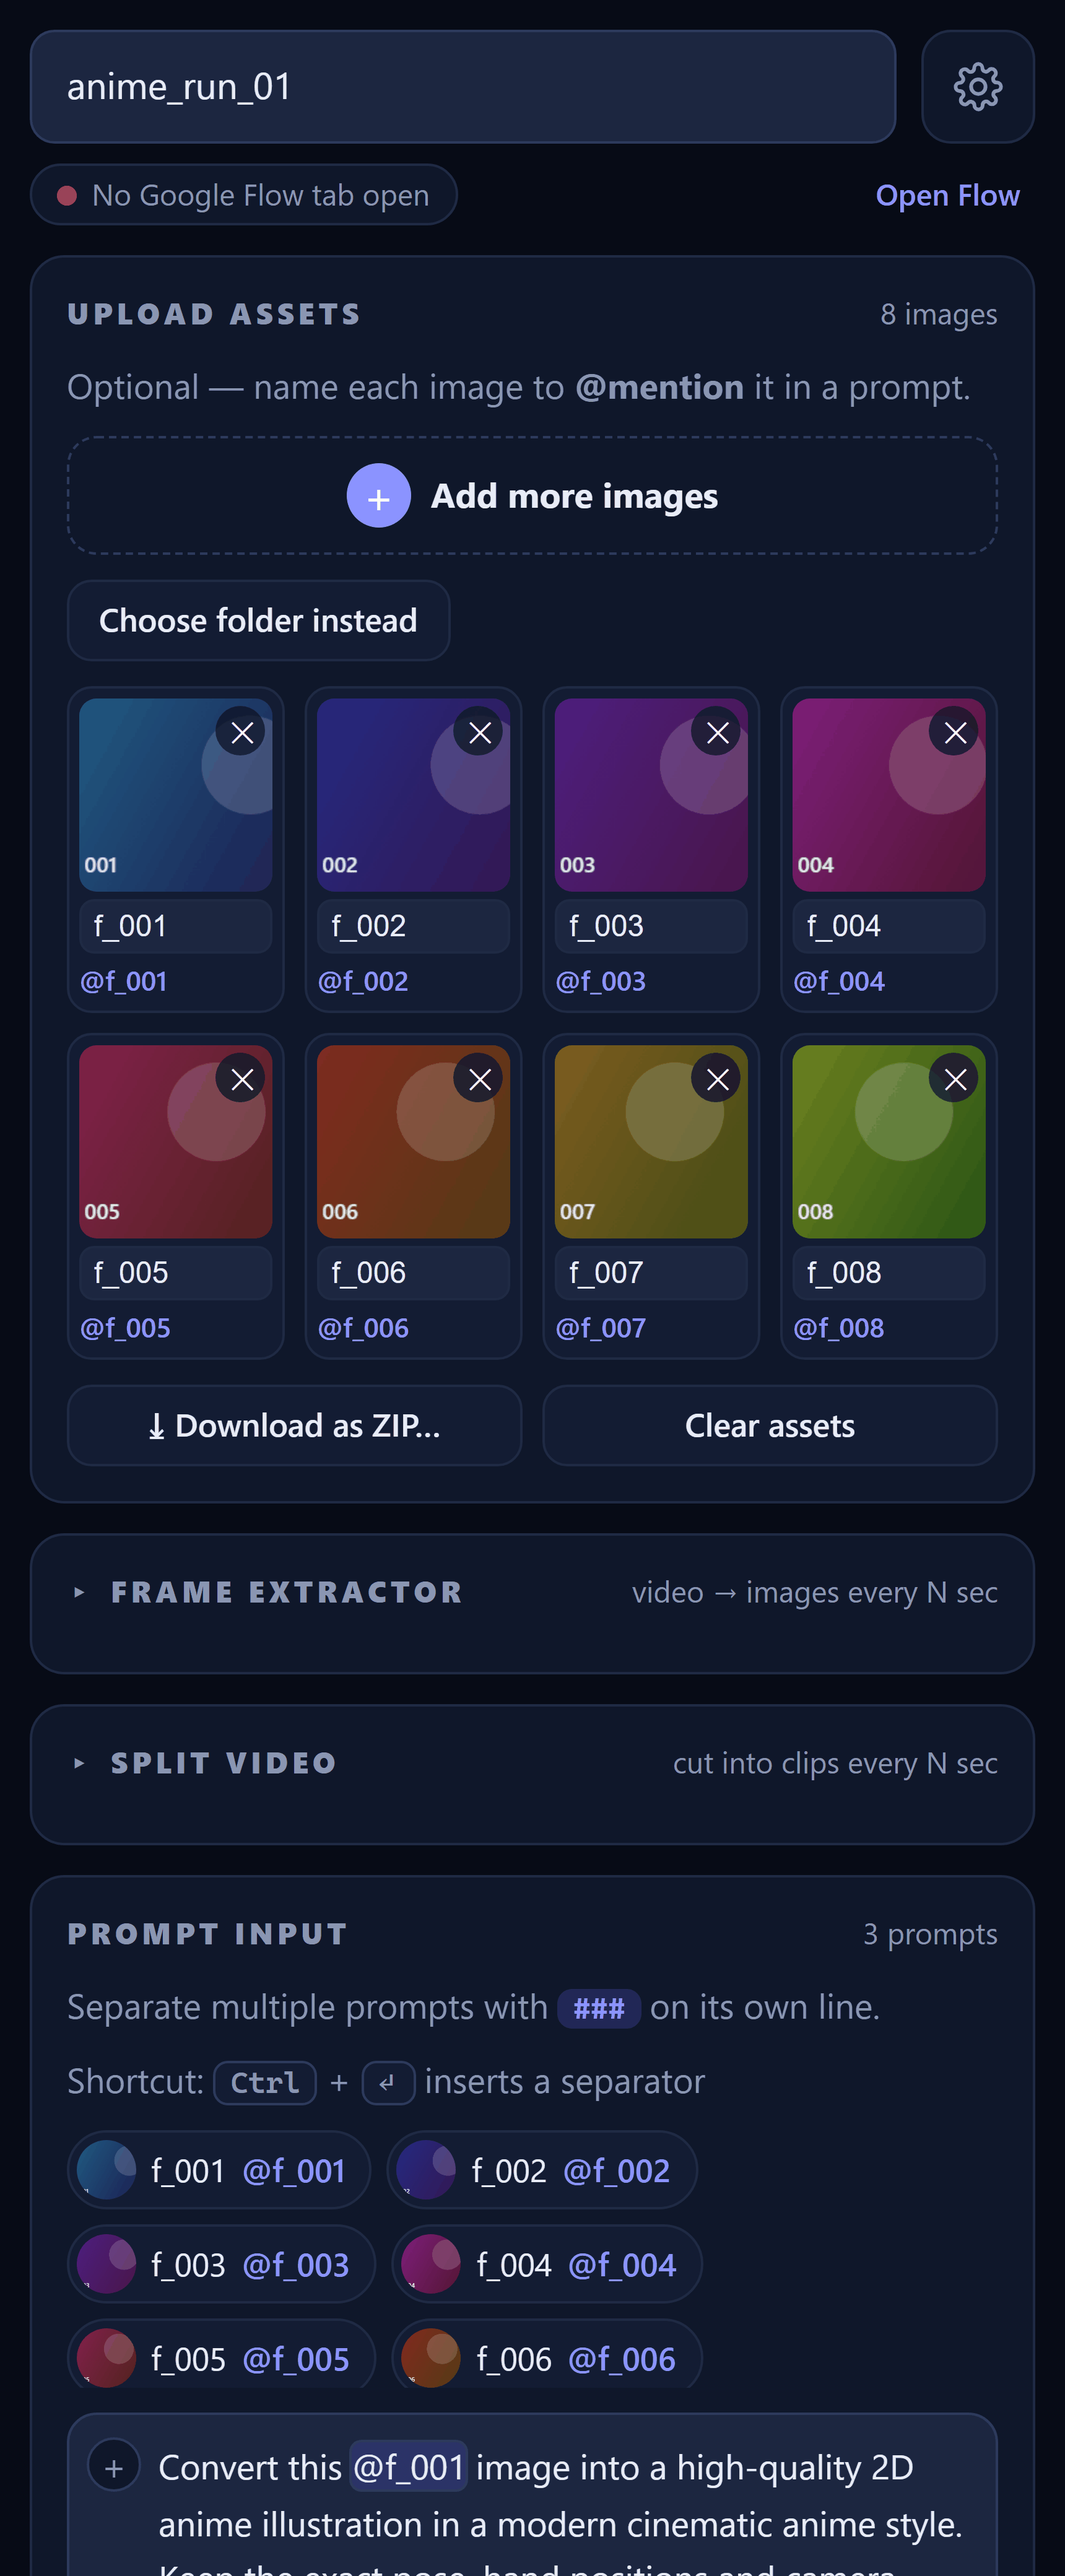
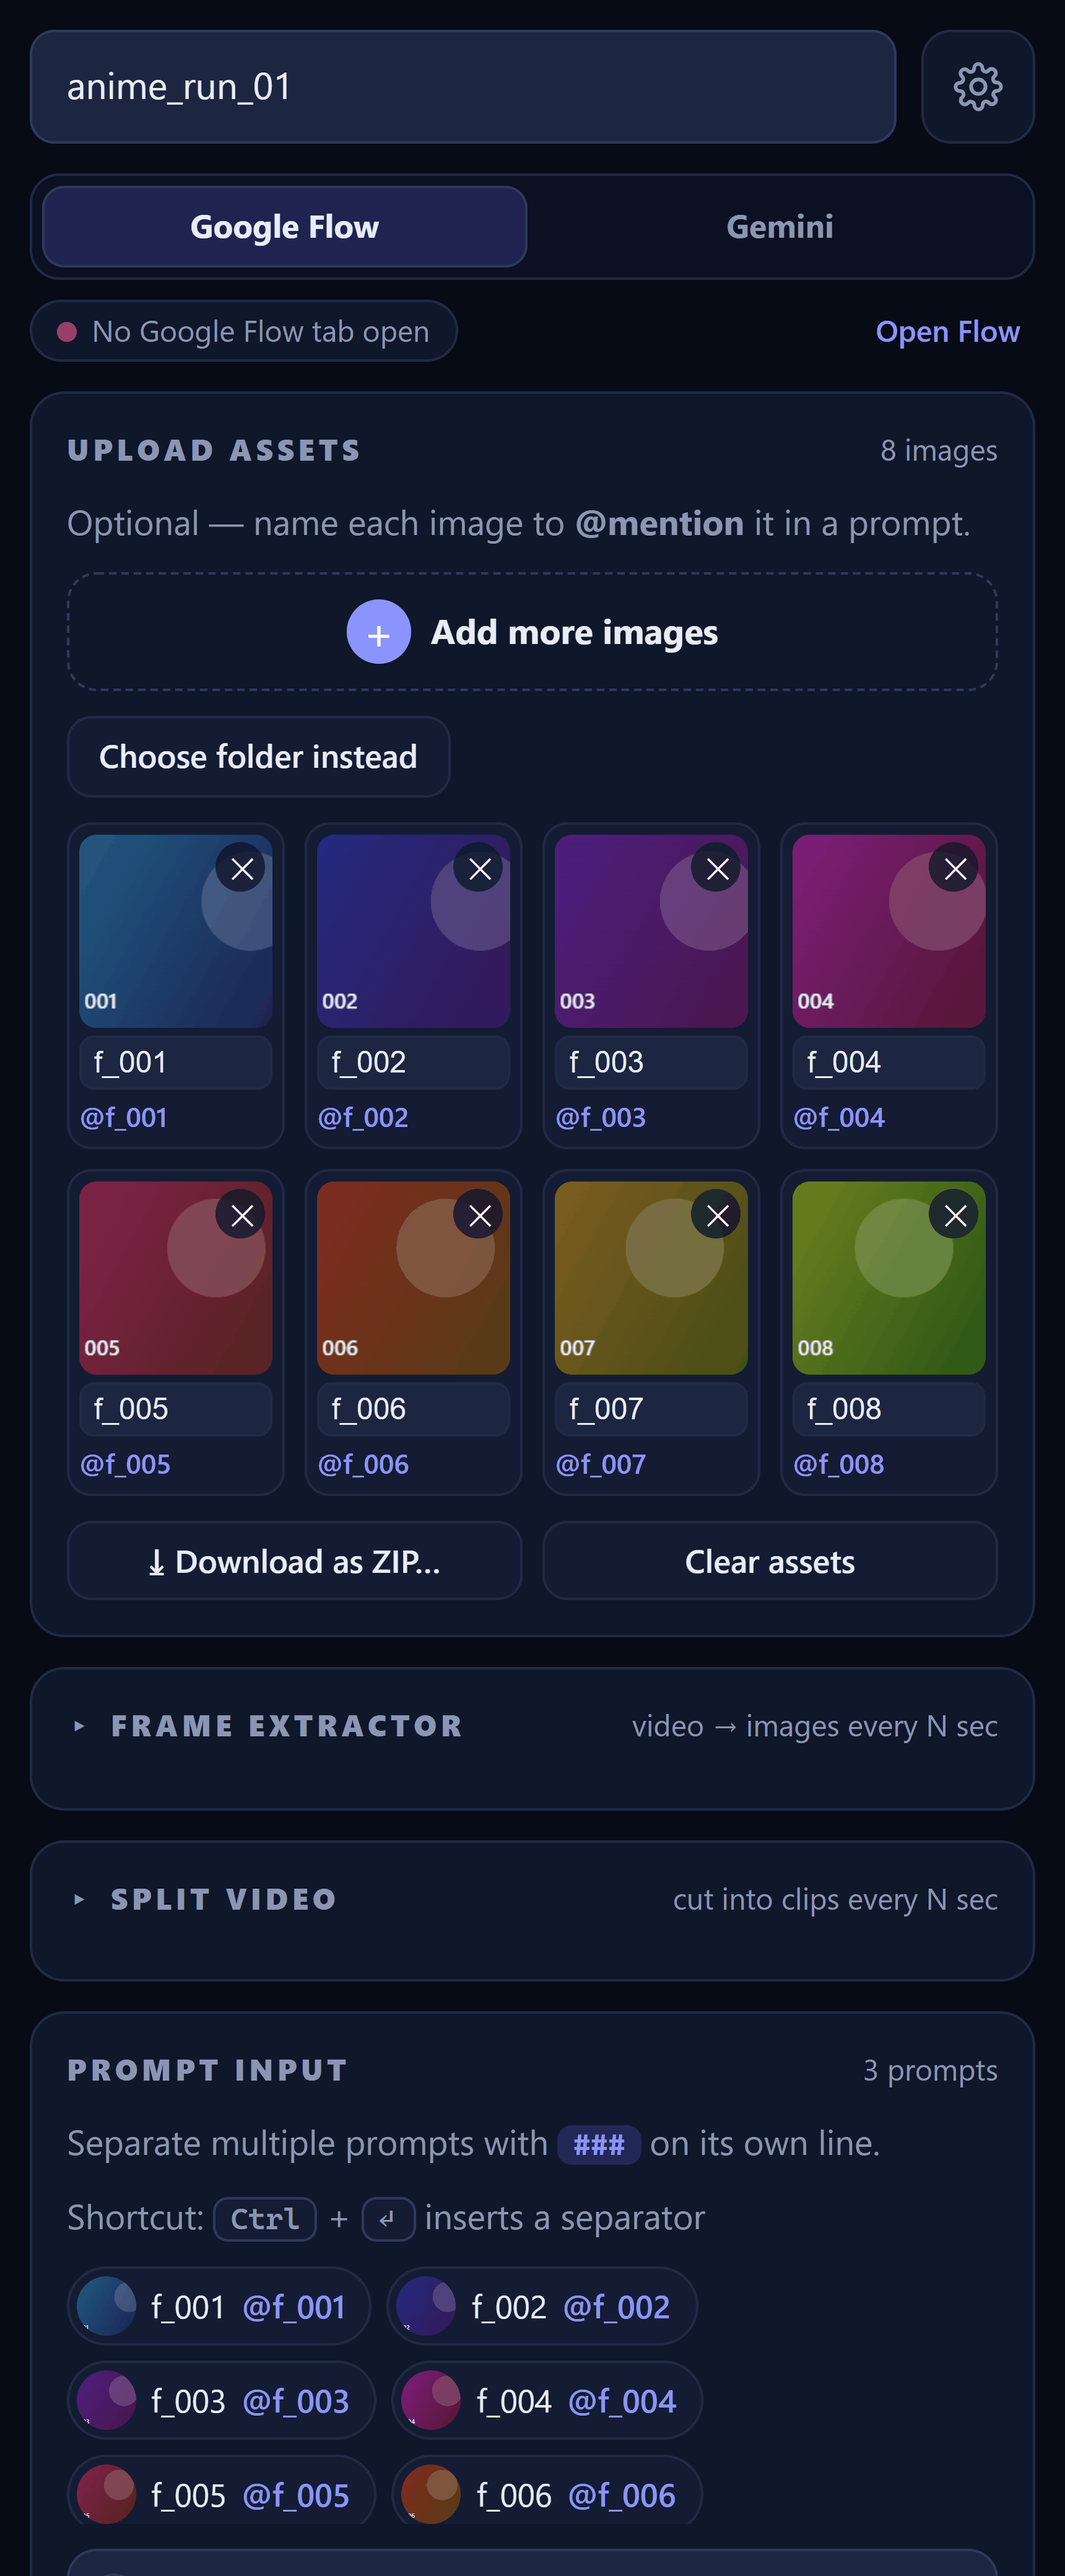
Document Gemini support and add its screenshots
- README: a "Using Gemini instead of Flow" section, Send to Gemini, Gemini
  element calibration, and the new files
- Screenshots: the site switch in the panel, Gemini's options and elements,
  and Settings with the Gemini URL and new-chat toggle
- Shorter labels for Gemini's "no change" options, which were cut off when
  the ratio and model selects sit side by side

diff --git a/sidepanel/js/store.js b/sidepanel/js/store.js
@@ -79,7 +79,7 @@ export const ASPECTS = {
 // Gemini's model picker in the prompt box — one setting for images and videos (Veo makes the
 // videos whichever is picked). `match` is tested against its menu items.
 const GEMINI_MODEL_LIST = [
-  { id: 'keep', label: "Gemini's current", sub: "Don't change", icon: '–', match: null },
+  { id: 'keep', label: 'Unchanged', sub: "Gemini's current", icon: '–', match: null },
   { id: 'fast', label: 'Fast', sub: 'Quickest', icon: 'G', match: '^fast\\b|flash' },
   { id: 'thinking', label: 'Thinking', sub: 'Images: Nano Banana Pro', icon: 'G', match: '^thinking\\b' },
   { id: 'pro', label: 'Pro', sub: 'Most capable', icon: 'G', match: '^(\\d(\\.\\d)?\\s*)?pro\\b' },
@@ -90,7 +90,7 @@ export const GEMINI_MODELS = { image: GEMINI_MODEL_LIST, video: GEMINI_MODEL_LIS
 const ADDED = 'Added to the prompt';
 export const GEMINI_ASPECTS = {
   image: [
-    { id: 'keep', label: 'Leave to Gemini', sub: 'Nothing added', icon: '–' },
+    { id: 'keep', label: 'Not set', sub: 'Gemini decides', icon: '–' },
     { id: '16:9', label: '16:9', sub: ADDED, icon: 'land' },
     { id: '9:16', label: '9:16', sub: ADDED, icon: 'port' },
     { id: '1:1', label: '1:1', sub: ADDED, icon: 'sq' },
@@ -98,7 +98,7 @@ export const GEMINI_ASPECTS = {
     { id: '3:4', label: '3:4', sub: ADDED, icon: 'port' },
   ],
   video: [
-    { id: 'keep', label: 'Leave to Gemini', sub: 'Nothing added', icon: '–' },
+    { id: 'keep', label: 'Not set', sub: 'Gemini decides', icon: '–' },
     { id: '16:9', label: '16:9', sub: ADDED, icon: 'land' },
     { id: '9:16', label: '9:16', sub: ADDED, icon: 'port' },
   ],

diff --git a/README.md b/README.md
@@ -1,9 +1,10 @@
-# FlowBatch: bulk generator for Google Flow
+# FlowBatch: bulk generator for Google Flow and Gemini
 
 FlowBatch is a Chrome side-panel extension. It runs a queue of 20–30+ prompts in
-[Google Flow](https://flow.google.com/), one prompt at a time. For each prompt it attaches the
-reference images mentioned in the prompt, types the prompt, and submits it. Then it waits until
-Flow finishes (or reports an error), downloads the result, and moves on to the next prompt.
+[Google Flow](https://flow.google.com/) or [Gemini](https://gemini.google.com/app), one prompt at a
+time. For each prompt it attaches the reference images mentioned in the prompt, types the prompt,
+and submits it. Then it waits until the site finishes (or reports an error), downloads the result,
+and moves on to the next prompt.
 It also includes a frame extractor that turns a video into stills every N seconds — from a local file,
 a direct video URL, or by capturing whatever is playing in a browser tab.
 
@@ -14,7 +15,7 @@ a direct video URL, or by capturing whatever is playing in a browser tab.
   &nbsp;
   <img src="docs/screenshots/prompt.png" width="300" alt="Prompt editor with highlighted mentions and separators">
 </p>
-<p align="center"><sub><b>The side panel</b> — reference images, prompts and generation options &nbsp;·&nbsp; <b>Prompt editor</b> — @mentions and <code>###</code> separators highlighted as you type</sub></p>
+<p align="center"><sub><b>The side panel</b> — pick Google Flow or Gemini at the top, then reference images, prompts and generation options &nbsp;·&nbsp; <b>Prompt editor</b> — @mentions and <code>###</code> separators highlighted as you type</sub></p>
 
 <p align="center">
   <img src="docs/screenshots/frames.png" width="300" alt="Frame extractor with video preview and extracted frames">
@@ -42,23 +43,30 @@ a direct video URL, or by capturing whatever is playing in a browser tab.
   &nbsp;
   <img src="docs/screenshots/publish.png" width="300" alt="Publish queue with captions, hashtags and scheduled times">
 </p>
-<p align="center"><sub><b>Split video</b> &mdash; clips every N seconds; save, zip or send the ones you tick to Flow &nbsp;&middot;&nbsp; <b>Publish queue</b> &mdash; captions from your prompts, suggested hashtags and a posting time per item</sub></p>
+<p align="center"><sub><b>Split video</b> &mdash; clips every N seconds; save, zip or send the ones you tick to Flow or Gemini &nbsp;&middot;&nbsp; <b>Publish queue</b> &mdash; captions from your prompts, suggested hashtags and a posting time per item</sub></p>
+
+<p align="center">
+  <img src="docs/screenshots/gemini.png" width="300" alt="Generation options with Gemini selected: ratio not set, Thinking model">
+  &nbsp;
+  <img src="docs/screenshots/gemini-settings.png" width="300" alt="Gemini element calibration in Settings">
+</p>
+<p align="center"><sub><b>Gemini</b> &mdash; its own model choice, a ratio added to the prompt, one result per prompt &nbsp;&middot;&nbsp; <b>Gemini elements</b> &mdash; Pick / Test / Diagnose for each part of Gemini's page</sub></p>
 
 <p align="center">
   <img src="docs/screenshots/settings.png" width="300" alt="Settings view">
 </p>
-<p align="center"><sub><b>Settings</b> &mdash; pacing, behaviour and Flow element calibration</sub></p>
+<p align="center"><sub><b>Settings</b> &mdash; pacing, behaviour, site URLs and element calibration</sub></p>
 
-<sub><i>The panel is shown with placeholder images standing in for real video frames and Flow output.</i></sub>
+<sub><i>The panel is shown with placeholder images standing in for real video frames and Flow or Gemini output.</i></sub>
 
 ## Install (unpacked)
 
 1. Open `chrome://extensions` and turn on **Developer mode** (top right).
 2. Click **Load unpacked** and select this `FlowBatch` folder.
 3. Pin the extension, then click its icon. The panel opens on the right side of the window.
-4. Open a Google Flow tab. If Flow was already open before you installed the extension, reload that tab once.
+4. Open a Google Flow tab, or Gemini. If it was already open before you installed the extension, reload that tab once.
 
-After you edit any file, click **Reload** on the extension card and reload the Flow tab.
+After you edit any file, click **Reload** on the extension card and reload the Flow or Gemini tab.
 
 ## Typical workflow (video → anime frames)
 
@@ -81,6 +89,40 @@ After you edit any file, click **Reload** on the extension card and reload the F
 Other ways to add images: drag and drop them, browse for files, or **Choose folder instead**. Rename an image in its card
 and every `@mention` of it in your prompts is updated. Type `@` in the prompt box to pick an image from a list.
 Press `Ctrl + Enter` to insert a separator.
+
+## Using Gemini instead of Flow
+
+Switch **Google Flow | Gemini** at the top of the panel. Assets, @mentions, prompts, the queue, downloads
+and ZIPs work the same way; only the page FlowBatch drives changes. Sign in to
+[gemini.google.com](https://gemini.google.com/app) first.
+
+For each prompt, FlowBatch:
+
+1. opens a **new chat**, so the previous image and reply don't steer the next result
+   (*Settings → Start a new Gemini chat for each prompt*),
+2. picks Gemini's **Create images** tool — **Create videos** in Video mode — and the model you chose:
+   **Fast**, **Thinking** or **Pro** (Thinking is the one that makes images with Nano Banana Pro),
+3. uploads each `@mentioned` image through Gemini's **+** menu,
+4. types the prompt and sends it,
+5. waits until Gemini's reply has finished and nothing in it is still loading,
+6. downloads the image at full size. Gemini shows a downscaled copy; FlowBatch asks for the original
+   first and falls back to the copy on the page.
+
+What is different from Flow:
+
+- **One result per prompt.** Gemini has no x1–x4, so that control is hidden.
+- **No aspect-ratio control.** Pick a ratio and FlowBatch adds `Aspect ratio: 16:9.` to the prompt;
+  leave it on *Not set* to add nothing, which keeps the source framing for image edits.
+- **No start/end frames**, so *Sequential frames* and *One prompt per frame pair* are Flow-only. In Video
+  mode each prompt, with its image, becomes one Veo video. Veo's video appears a minute or two after
+  Gemini's text reply, and FlowBatch waits for it.
+- **A reply without an image fails the prompt,** quoting Gemini — for example
+  `Gemini replied without an image: “I can't create images of …”`. Gemini's daily limits apply;
+  *Stop the queue after 3 failures in a row* ends a run that has hit one.
+- **Send to Gemini** in the Split video card attaches up to 10 clips at a time, Gemini's limit per message.
+
+When Gemini is selected, Settings shows **Gemini elements** — prompt box, send button, upload (+),
+Tools, model picker and New chat — with the same Diagnose / Pick / Test tools as Flow.
 
 ## Where frames come from
 
@@ -118,7 +160,8 @@ fixed length — every 5 seconds, say — so each piece can be saved or used in 
 4. Each clip appears as it finishes, with a player so you can check it. Untick the ones you don't want.
 5. **⤓ Save** writes the ticked clips to `Downloads/<Base folder>/<Project name>/clips/`,
    **⤓ ZIP…** packs them into one archive wherever you choose, and **Send to Flow** attaches all the
-   ticked clips to the prompt box in your Flow tab in one batch — nothing typed or submitted.
+   ticked clips to the prompt box in your Flow tab in one batch — nothing typed or submitted. With
+   Gemini selected the button reads **Send to Gemini** and does the same there.
 
 **How it works, and what that costs.** A browser extension can't bundle ffmpeg, so Chrome plays the
 source and `MediaRecorder` re-records each segment. That means:
@@ -156,6 +199,9 @@ something Flow will take, sends them together, and checks what happened to each 
 
 Whether Flow *uses* an uploaded clip still depends on its mode: several of its video modes take images,
 not video.
+
+**Send to Gemini** works the same way, into Gemini's prompt box: the same MP4 copies, the same chunked
+transfer and per-clip check. Gemini takes at most 10 files per message, so tick 10 clips or fewer.
 
 
 
@@ -205,7 +251,7 @@ a hashtag alone does not satisfy those policies.
 
 Three cards offer **⤓ Download as ZIP…**: *Upload assets* (any image in the panel), *Frame extractor* (the frames from
 the last run, even if you did not add them to assets), and the summary at the end of a run (*Download results as ZIP*,
-read straight from the Flow tab, so keep it open).
+read straight from the Flow or Gemini tab, so keep it open).
 
 Each opens a picker where every image starts ticked. Untick anything you do not want — or use **All / None / Invert** —
 name the archive, and press **Download ZIP…**. Chrome's *Save as* dialog then lets you put it wherever you like, instead
@@ -244,39 +290,46 @@ For each prompt, FlowBatch:
 6. marks the prompt **success** once the expected number of new results has loaded and nothing is still in progress,
    or **failed** on an error message or after the *timeout*. Then it waits *Delay between prompts* before the next one.
 
+In Gemini, step 5 watches the reply instead: a prompt succeeds when the reply has finished and holds an image
+(or video), and fails when it finishes without one.
+
 Failed prompts can be retried automatically (*Retries per prompt*), one at a time with **↻**, or all together with
 **Regenerate failed images**. **Pause** lets the current prompt finish and then stops; **Resume** continues from there.
 **Stop** cancels the current prompt and puts it back in the queue. Your queue, prompts, assets and settings are
 kept when you close the panel.
 
-## If Flow's layout changes
+## If Flow's or Gemini's layout changes
 
-Google changes Flow's interface often, so FlowBatch locates buttons with flexible matching instead of fixed element
+Google changes both interfaces often, so FlowBatch locates buttons with flexible matching instead of fixed element
 IDs. If a step fails (see **Activity log**):
 
-1. Open a Flow project, then go to **Settings → Flow elements → Diagnose current Flow tab** to see what was detected.
+1. Open a Flow project (or Gemini), then go to **Settings → Flow elements → Diagnose current Flow tab** to see what
+   was detected. With Gemini selected, the card is **Gemini elements**.
 2. Click **Pick** next to *Prompt box*, *Submit button*, *Add image button*, *Generation settings button*, or the
    *Start frame slot* / *End frame slot* used by sequential video, then click that element on the Flow page.
-   The saved selector overrides automatic detection.
+   For Gemini the elements are *Prompt box*, *Send button*, *Upload (+) button*, *Tools button*, *Model picker* and
+   *New chat button*. The saved selector overrides automatic detection.
 3. **Test** highlights the element that will be used.
-4. If mode, ratio, model or count can't be found, the log says so and the run continues. Set those options once by hand
-   in Flow, or turn off *Apply mode / ratio / model / count in Flow*.
+4. If mode, ratio, model or count (Gemini: tool or model) can't be found, the log says so and the run continues. Set
+   those options once by hand, or turn off *Apply mode / ratio / model / count*.
 
 ## Files
 
 | Path | Purpose |
 | --- | --- |
-| `manifest.json` | MV3 manifest (side panel, downloads, content scripts for `flow.google.com`) |
+| `manifest.json` | MV3 manifest (side panel, downloads, content scripts for `flow.google.com` and `gemini.google.com`) |
 | `background.js` | Opens the side panel when the toolbar icon is clicked |
-| `content/page-hook.js` | Main-world hook: catches Flow's file-picker call so images can be uploaded without the OS dialog opening |
-| `content/dom.js` | Element finders, clicking and typing helpers, result/progress/error detection, element picker |
-| `content/flow-agent.js` | Actions the panel calls: `attachImage`, `setPrompt`, `submit`, `poll`, `applySettings`, … |
+| `content/page-hook.js` | Main-world hook: catches the site's file-picker call so images can be uploaded without the OS dialog opening |
+| `content/dom.js` | Element finders, clicking and typing helpers, result/progress/error detection, element picker, shared agent plumbing |
+| `content/flow-agent.js` | Actions the panel calls in Flow: `attachImage`, `setPrompt`, `submit`, `poll`, `applySettings`, … |
+| `content/gemini-agent.js` | The same actions for Gemini, plus `newChat`; replies, tools and the model picker |
+| `sidepanel/js/site.js` | The two sites: finding their tab, talking to their agent, streaming files into it |
 | `sidepanel/js/runner.js` | Queue loop: upload → type → submit → wait → download → delay |
 | `sidepanel/js/frames.js` | Frame extraction: local/URL video seeking, and `tabCapture` of the active tab |
 | `sidepanel/js/zip.js` | ZIP writer (stored entries, ZIP64 when an archive needs it) |
 | `sidepanel/js/zip-ui.js` | The "pick what goes in the ZIP" sheet |
 | `sidepanel/js/split.js` | Video splitting with `MediaRecorder`: clip plan, silent audio routing, per-segment recording |
-| `sidepanel/js/split-ui.js` | Split video card: clip list, save / ZIP / send to Flow |
+| `sidepanel/js/split-ui.js` | Split video card: clip list, save / ZIP / send to Flow or Gemini |
 | `sidepanel/js/publish-ui.js` | Publish queue: caption templates, schedule plan, batch export |
 | `sidepanel/js/hashtags.js` | Caption summaries and prompt-derived hashtags |
 | `sidepanel/js/results.js` | Shared access to the queue's generated results |
